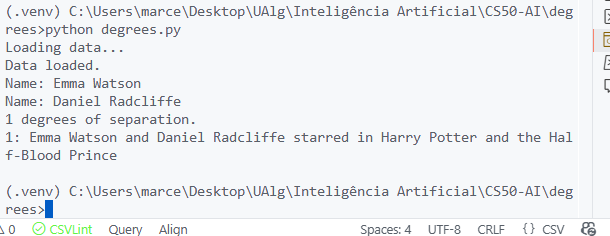
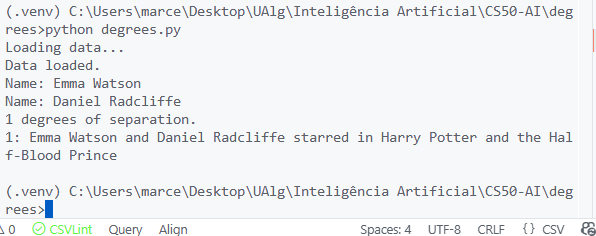
feat: Add README and example image for project documentation

diff --git a/README.md b/README.md
@@ -1,0 +1,84 @@
+# Trabalho Prático 1 – Degrees
+
+**Disciplina:** Inteligência Artificial – Universidade do Algarve
+**Aluno:** Marcelo Santos (a79433)
+
+## Descrição
+
+Este repositório faz parte dos trabalhos práticos da disciplina de Inteligência Artificial, com foco em algoritmos de busca e grafos. O objetivo do TP1 – Degrees é determinar os graus de separação entre atores, ou seja, encontrar o menor caminho de conexões (filmes em comum) entre dois atores do banco de dados.
+
+## Estrutura do Projeto
+
+- `degrees.py`: Script principal que executa o algoritmo de busca.
+- `util.py`: Implementação das estruturas de dados utilizadas (nó, fronteira de busca).
+- `requirements.txt`: Ferramentas de submissão e validação (submit50, check50, style50).
+- Pasta `large/` e `small/`: Bases de dados CSV com informações de pessoas, filmes e participações.
+
+## Como Executar
+
+1. Instale os requisitos (opcional, apenas para submissão/validação):
+
+   ```bash
+   pip install -r requirements.txt
+   ```
+
+2. Execute o programa:
+
+   ```bash
+   python degrees.py
+   ```
+
+3. Informe os nomes dos atores para calcular os graus de separação.
+
+## Implementação da Função `shortest_path`
+
+A função `shortest_path` é responsável por encontrar o menor caminho entre dois atores utilizando o algoritmo de Busca em Largura (BFS), ideal para encontrar caminhos mínimos em grafos não ponderados.
+
+### Passos do Algoritmo
+
+1. **Inicialização:**
+
+   - Cria um nó inicial para o ator de origem.
+   - Adiciona este nó à fronteira (QueueFrontier), que garante a ordem FIFO típica do BFS.
+   - Inicializa um conjunto de estados explorados.
+
+2. **Busca:**
+
+   - Enquanto a fronteira não estiver vazia, remove o próximo nó.
+   - Se o nó corresponde ao ator de destino, reconstrói o caminho percorrido e retorna.
+   - Marca o nó como explorado.
+   - Para cada vizinho (atores que participaram de filmes em comum), verifica se já foi explorado ou está na fronteira. Se não, adiciona à fronteira.
+   - Se o destino for encontrado durante a expansão dos vizinhos, reconstrói e retorna o caminho imediatamente.
+
+3. **Reconstrução do Caminho:**
+
+   - O caminho é reconstruído a partir do nó final até o inicial, utilizando os ponteiros de pai de cada nó.
+   - O resultado é uma lista de pares `(movie_id, person_id)` que representa cada etapa da conexão entre os atores.
+
+4. **Caso Sem Caminho:**
+
+   - Se a fronteira esvaziar sem encontrar o destino, retorna `None` indicando que não há conexão.
+
+### Exemplo de Uso
+
+Ao executar o programa e informar dois atores, o sistema retorna o número de graus de separação e detalha cada conexão (filme compartilhado).
+
+![Execução do programa](running_degrees.png)
+
+## Ferramentas de Submissão e Validação
+
+- **submit50:** Submissão oficial do trabalho.
+- **check50:** Validação automática dos requisitos do projeto.
+- **style50:** Verificação de estilo do código.
+
+## Observações
+
+- Este trabalho prático tem peso 2.4/10 e é considerado de dificuldade fácil.
+- É obrigatório demonstrar o uso das ferramentas de submissão e validação na apresentação.
+
+---
+
+Universidade do Algarve
+**Marcelo Santos – a79433**
+
+[GitHub](https://github.com/marcelo-m7)
